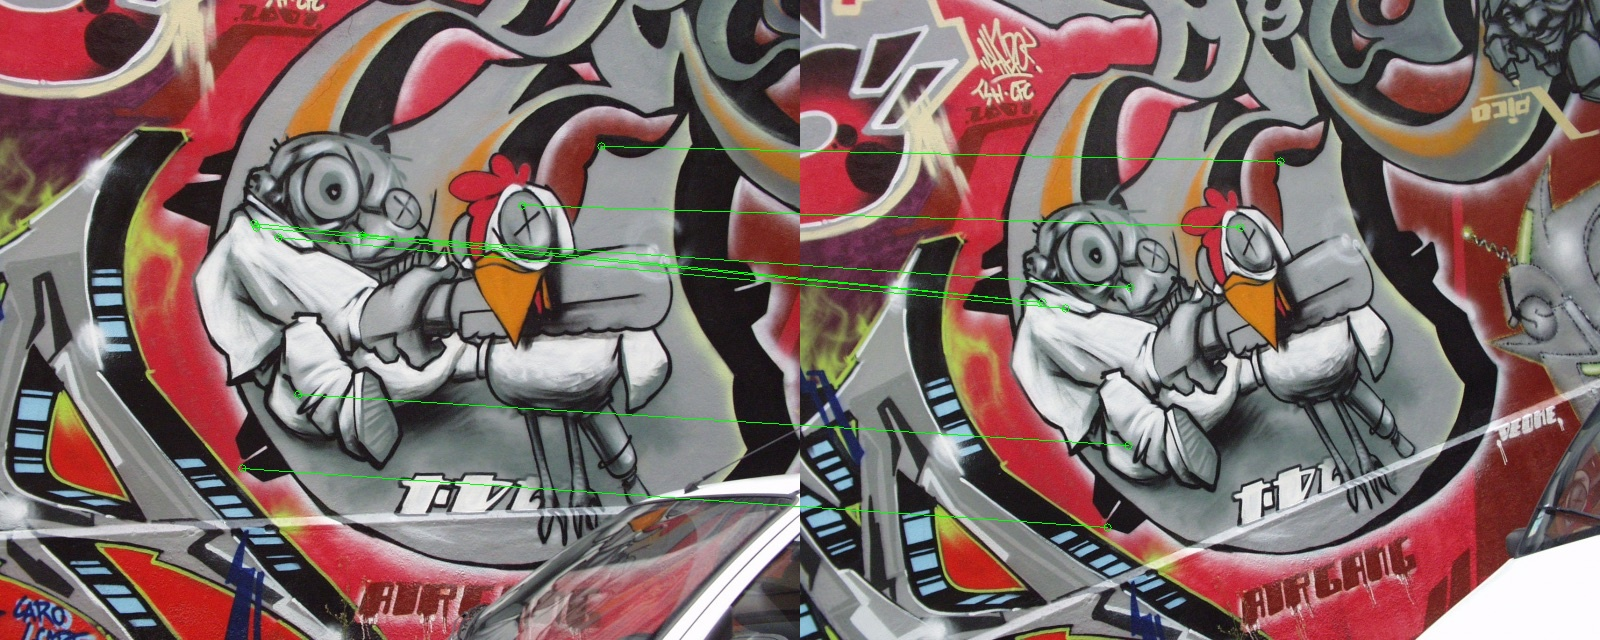
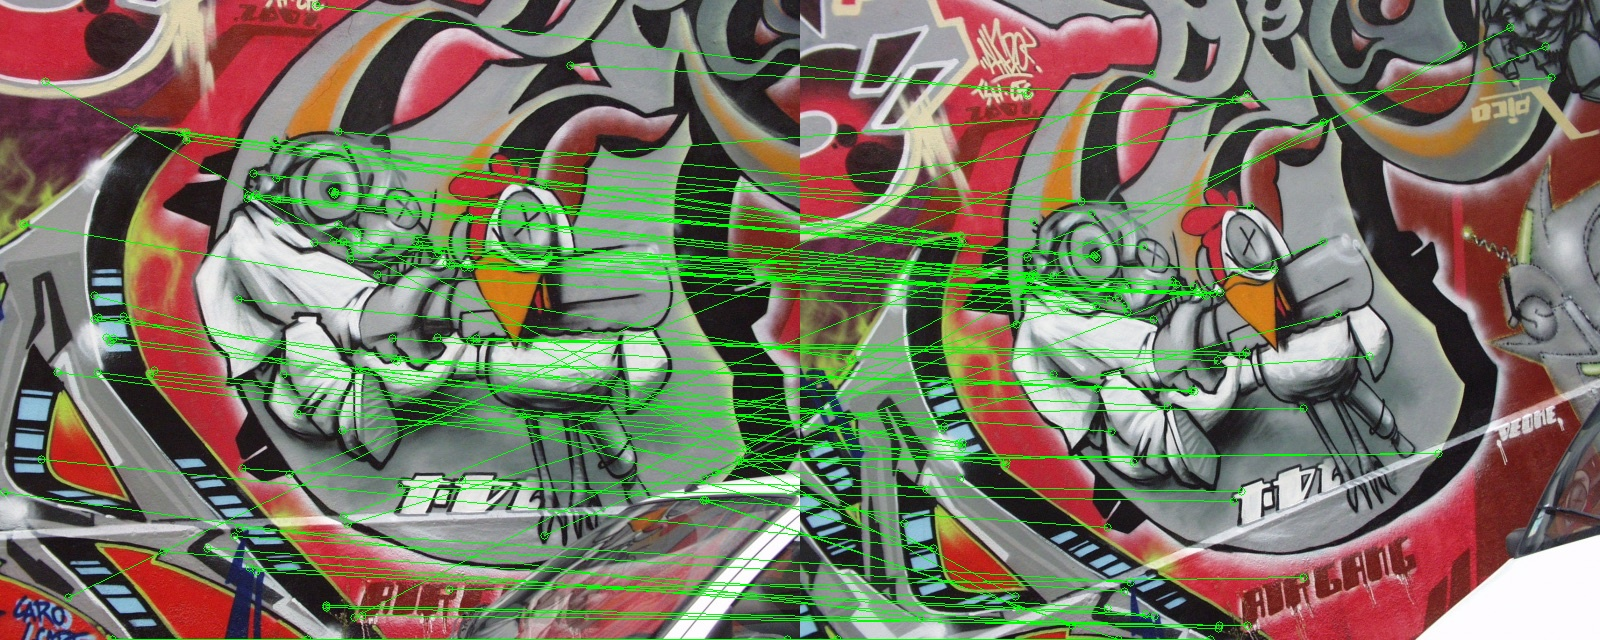
Everything

diff --git a/part1/main.py b/part1/main.py
@@ -74,11 +74,13 @@ def process_image_pair(img1_path, img2_path, harris_detector, descriptor_type, r
     keypoint_extractor = HarrisKeypointExtractor(harris_detector)
     keypoints1 = keypoint_extractor.detect(img1)
     keypoints2 = keypoint_extractor.detect(img2)
-    
+    print(f"  Harris keypoints: {len(keypoints1)} / {len(keypoints2)}")
+
     # Compute descriptors
     descriptor = FeatureDescriptor(descriptor_type=descriptor_type)
     keypoints1, descriptors1 = descriptor.compute_for_keypoints(img1, keypoints1)
     keypoints2, descriptors2 = descriptor.compute_for_keypoints(img2, keypoints2)
+    print(f"  After SIFT compute: {len(keypoints1)} / {len(keypoints2)}")
     
     # Visualize keypoints
     keypoints_vis1 = visualize_keypoints(img1, keypoints1)
@@ -91,7 +93,7 @@ def process_image_pair(img1_path, img2_path, harris_detector, descriptor_type, r
     print("Step 3: Feature Matching with RANSAC")
     
     # Match descriptors
-    matcher = FeatureMatcher(ratio_threshold=0.75)
+    matcher = FeatureMatcher(ratio_threshold=0.8)
     matches = matcher.match_descriptors(descriptors1, descriptors2)
     
     # Visualize initial matches
@@ -103,7 +105,7 @@ def process_image_pair(img1_path, img2_path, harris_detector, descriptor_type, r
         points1, points2 = extract_matched_points(keypoints1, keypoints2, matches)
         
         # Apply RANSAC
-        ransac = RANSAC(n_iterations=1000, inlier_threshold=3.0)
+        ransac = RANSAC(n_iterations=1000, inlier_threshold=5.0)
         H, inliers = ransac.estimate_homography(points1, points2)
         
         # Visualize ransac matches
@@ -111,8 +113,8 @@ def process_image_pair(img1_path, img2_path, harris_detector, descriptor_type, r
         cv2.imwrite(os.path.join(pair_dir, "ransac_matches.jpg"), ransac_matches_vis)
         
         # Compute match quality
-        quality_score = ransac.compute_match_quality(H, points1, points2, inliers)
-        
+        quality_score = ransac.compute_match_quality(H, points1, points2, inliers) if H is not None else 0
+
         inlier_count = np.sum(inliers) if inliers is not None else 0
         inlier_ratio = inlier_count / len(matches) if len(matches) > 0 else 0
         
@@ -175,7 +177,7 @@ def main():
             ))
     
     # Initialize Harris detector
-    harris_detector = HarrisDetector(k=0.04, window_size=3, threshold=0.01)
+    harris_detector = HarrisDetector(k=0.04, window_size=3, threshold=0.005)
     
     # Choose descriptor type ('SIFT' or 'SURF')
     descriptor_type = 'SIFT'

diff --git a/part1/src/matching.py b/part1/src/matching.py
@@ -3,7 +3,7 @@ import cv2
 from scipy.spatial.distance import cdist
 
 class FeatureMatcher:
-    def __init__(self, ratio_threshold=0.75, distance_metric='euclidean'):
+    def __init__(self, ratio_threshold=0.8, distance_metric='euclidean'):
         """
         Initialize feature matcher.
         
@@ -42,7 +42,7 @@ class FeatureMatcher:
         return matches
 
 class RANSAC:
-    def __init__(self, n_iterations=1000, inlier_threshold=3.0, min_inliers=5):
+    def __init__(self, n_iterations=1000, inlier_threshold=5.0, min_inliers=4):
         """
         Initialize RANSAC algorithm for homography estimation.
         
@@ -82,11 +82,19 @@ class RANSAC:
             dst_sample = dst_points[idx]
 
             #       2. Compute homography
-            H = cv2.getPerspectiveTransform(src_sample.astype(np.float32), dst_sample.astype(np.float32))
+            A = []
+            for (x, y), (xp, yp) in zip(src_sample, dst_sample):
+                A.append([-x, -y, -1, 0, 0, 0, x*xp, y*xp, xp])
+                A.append([0, 0, 0, -x, -y, -1, x*yp, y*yp, yp])
+            A = np.array(A)
+            _, _, Vt = np.linalg.svd(A)
+            H = Vt[-1].reshape(3, 3)
+            H = H / H[2, 2]
 
             #       3. Transform all points
-            src_reshaped = src_points.reshape(-1, 1, 2).astype(np.float32)
-            projected = cv2.perspectiveTransform(src_reshaped, H).reshape(-1,2)
+            homog = np.hstack([src_points, np.ones((src_points.shape[0], 1))])
+            projected_h = (H @ homog.T).T
+            projected = projected_h[:, :2] / projected_h[:, 2:3]
 
             #       4. Identify inliers
             errors = np.linalg.norm(projected - dst_points, axis = 1)
@@ -98,6 +106,8 @@ class RANSAC:
                 best_count = count
                 best_H = H
                 best_inliers = inliers
+        if best_count < self.min_inliers:
+            return None, None
         
         return best_H, best_inliers
     
@@ -118,6 +128,9 @@ class RANSAC:
         # HINT: Consider inlier ratio and transformation error
         
         # Your implementation here
+        if H is None or inliers is None:
+            return 0.0
+
         ratio = inliers.sum() / len(inliers)
         projected = cv2.perspectiveTransform(src_points.reshape(-1,1,2).astype(np.float32), H).reshape(-1,2)
         errors = np.linalg.norm(projected - dst_points, axis=1)

diff --git a/part1/src/descriptors.py b/part1/src/descriptors.py
@@ -104,7 +104,7 @@ class HarrisKeypointExtractor:
         Returns:
             list: List of cv2.KeyPoint objects
         """
-        # Detect Harris corners and convert them to cv2.KeyPoint objects
+        # Detect Harris corners and convert them to cv2.20KeyPoint objects
         # HINT: Use the harris_detector to find corners, then convert coordinates to KeyPoints
         
         # Your implementation here
@@ -113,7 +113,8 @@ class HarrisKeypointExtractor:
         coordinates = self.harris_detector.get_corner_coordinates(corners)
 
         keypoints = []
-        for (x,y) in coordinates:
-            keypoints.append(cv2.KeyPoint(float(x), float(y), 10.0))
+        for (x, y) in coordinates:
+            r = response[y, x]
+            keypoints.append(cv2.KeyPoint(float(x), float(y), 3, response=float(r)))
         
         return keypoints

diff --git a/part1/src/harris.py b/part1/src/harris.py
@@ -2,7 +2,7 @@ import numpy as np
 import cv2
 
 class HarrisDetector:
-    def __init__(self, k=0.04, window_size=3, threshold=0.01):
+    def __init__(self, k=0.04, window_size=3, threshold=0.005):
         """
         Initialize Harris corner detector.
         
@@ -88,7 +88,7 @@ class HarrisDetector:
         
         return response
     
-    def non_max_suppression(self, response, neighborhood_size=7):
+    def non_max_suppression(self, response, neighborhood_size=3):
         """
         Apply non-maximum suppression to corner response.
         
